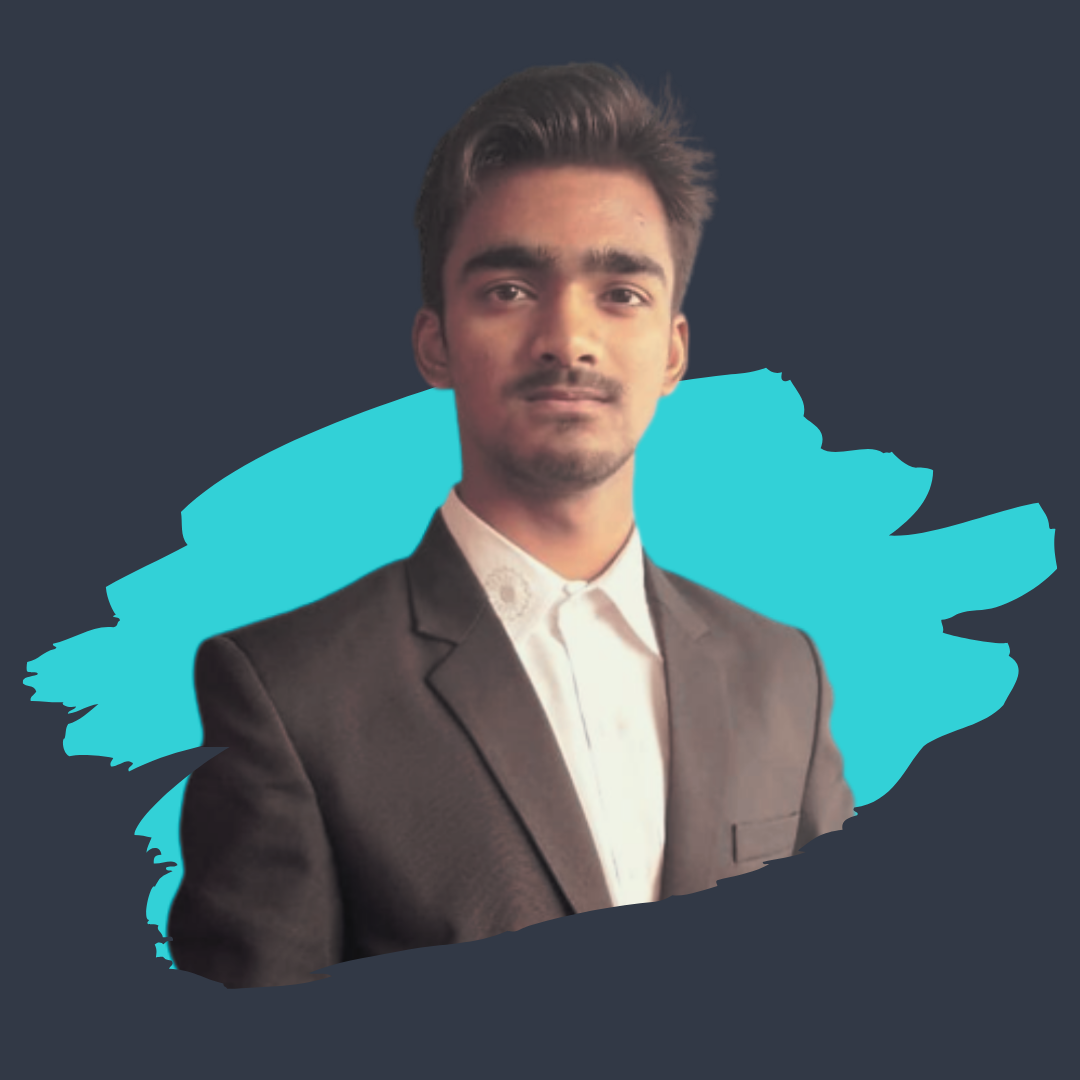
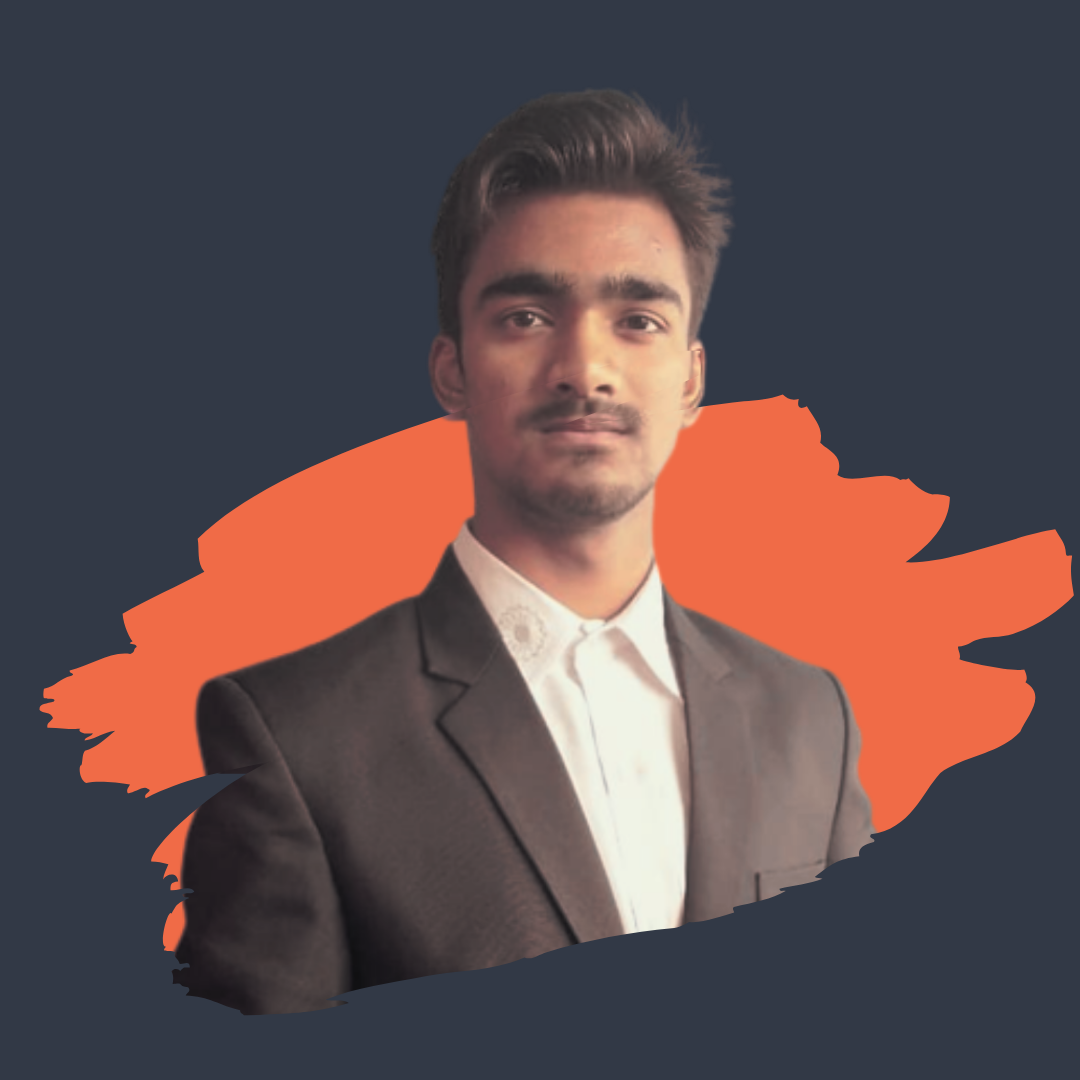
Chnaged the colour and added the proj images.

diff --git a/index.html b/index.html
@@ -16,7 +16,7 @@
 <body>
     <header class="header">
 
-        <a href="#" class="logo">LOGO</a>
+        <a href="#" class="logo">Dipanshu <span>Mishra</span></a>
         <i class="fa-solid fa-bars" id="menuicon"></i>
 
         <nav class="navbar">
@@ -59,7 +59,7 @@
             <img src="/2.png" alt="">
         </div>
         <div class="about-content">
-            <h2 class="heading">About Me</h2>
+            <h2 class="heading">About <span>Me!</span></h2>
             <h3>FrontEnd Developer</h3>
             <p>Lorem ipsum dolor sit amet consectetur adipisicing elit. Vitae maiores nesciunt voluptates. Amet dolorum
                 sint beatae earum dolor distinctio iure maxime quaerat expedita culpa! Consequuntur est beatae molestias
@@ -69,7 +69,7 @@
     </section>
 
     <section class="skills" id="skills">
-        <h2 class="heading">My Skillset and Qualifications</h2>
+        <h2 class="heading">My <span>Skillset</span> and <span>Qualifications!</span></h2>
 
         <div class="Container">
             <div class="ContBox SKILLS">
@@ -152,11 +152,11 @@
     </section>
 
     <section class="projects" id="projects">
-        <h2 class="heading">Latest <span>Projects</span></h2>
+        <h2 class="heading">Latest <span>Projects!</span></h2>
         
         <div class="projCont">
             <div class="projbox">
-                <img src="/maxresdefault.jpg" alt="">
+                <img src="/Project-Images/Realtor.png" alt="Realtor Clone-React JS">
                 <div class="projlayer">
                     <h4>Web Design</h4>
                     <p>Lorem ipsum dolor sit, amet consectetur adipisicing elit. Dignissimos ducimus quisquam eaque! Nostrum, obcaecati at aliquid tempora suscipit natus recusandae sunt esse nihil optio, accusamus hic quisquam debitis quae, officia odio reiciendis voluptas perspiciatis?</p>
@@ -164,7 +164,7 @@
                 </div>
             </div>
             <div class="projbox">
-                <img src="/maxresdefault.jpg" alt="">
+                <img src="/Project-Images/HOTD.jpg" alt="House of the Dragon Alternate Website">
                 <div class="projlayer">
                     <h4>Web Design</h4>
                     <p>Lorem ipsum dolor sit, amet consectetur adipisicing elit. Dignissimos ducimus quisquam eaque! Nostrum, obcaecati at aliquid tempora suscipit natus recusandae sunt esse nihil optio, accusamus hic quisquam debitis quae, officia odio reiciendis voluptas perspiciatis?</p>
@@ -172,7 +172,7 @@
                 </div>
             </div>
             <div class="projbox">
-                <img src="/maxresdefault.jpg" alt="">
+                <img src="/Project-Images/Superhero-Info.png" alt="Superhero-Info Generator">
                 <div class="projlayer">
                     <h4>Web Design</h4>
                     <p>Lorem ipsum dolor sit, amet consectetur adipisicing elit. Dignissimos ducimus quisquam eaque! Nostrum, obcaecati at aliquid tempora suscipit natus recusandae sunt esse nihil optio, accusamus hic quisquam debitis quae, officia odio reiciendis voluptas perspiciatis?</p>
@@ -180,7 +180,7 @@
                 </div>
             </div>
             <div class="projbox">
-                <img src="/maxresdefault.jpg" alt="">
+                <img src="/Project-Images/Tic-tac-Toe.png" alt="Tic Tac Toe Game">
                 <div class="projlayer">
                     <h4>Web Design</h4>
                     <p>Lorem ipsum dolor sit, amet consectetur adipisicing elit. Dignissimos ducimus quisquam eaque! Nostrum, obcaecati at aliquid tempora suscipit natus recusandae sunt esse nihil optio, accusamus hic quisquam debitis quae, officia odio reiciendis voluptas perspiciatis?</p>
@@ -209,6 +209,14 @@
     <footer class="footer">
         <div class="footertxt">
             <p> Copyright &copy | All Rights Reserved</p>
+        </div>
+
+        <div class="footer-social">
+            <a href="https://www.linkedin.com/in/dipanshu-mishra-696a0622a"><i
+                    class="fa-brands fa-linkedin"></i></a>
+            <a href="https://www.instagram.com/_.dipanshu._06/"><i class="fa-brands fa-square-instagram"></i></a>
+            <a href="https://github.com/Dipanshu0612"><i class="fa-brands fa-github"></i></a>
+            <a href=""><i class="fa-brands fa-telegram"></i></a>
         </div>
 
         <div class="icontop">

diff --git a/css/style.css b/css/style.css
@@ -12,7 +12,7 @@
     --bg-color: #1f242d;
     --second-bg-color: #323946;
     --text-color: #fff;
-    --main-color:#0ef;
+    --main-color:#ff914d;
 }
 html{
     font-size: 62.5%;
@@ -20,11 +20,13 @@ html{
 }
 body{
     background: var(--bg-color);
-    color: var(--text-color)
+    color: var(--text-color);
+    width:fit-content;
 }
 section{
     min-height: 100vh;
     padding: 10rem 9% 2rem;
+    width: 100%;
 }
 span{
     color: var(--main-color);
@@ -49,11 +51,12 @@ span{
 .navbar a{
     font-size: 1.7rem;
     margin-left: 4rem;
-    color: var(--text-color);
+    color: rgba(255, 255, 255, 0.678);
 
 }
 .navbar a:hover, a.active{
     color: var(--main-color);
+    font-weight: 700;
 }
 
 .navbar.active{
@@ -193,6 +196,7 @@ span{
 .Container .ContBox:hover{
     transform: scale(1.05);
     box-shadow: 0 0 2.5rem var(--main-color);
+    cursor: pointer;
 }
 .ContBox{
     display:inline;
@@ -266,13 +270,18 @@ span{
     border-radius: 2rem;
     box-shadow: 0 0 1rem var(--bg-color);
     overflow: hidden;
+    object-fit: cover;
+    height: 100%;
 }
 .projbox img{
     width: 100%;
+    height: 100%;
     transition: .5s ease;
+    object-fit: fill;
 }
 .projbox:hover img{
     transform: scale(1.1);
+    opacity: 0.1;
 }
 .projbox:hover .projlayer{
     transform: translateY(0);
@@ -282,7 +291,7 @@ span{
     bottom: 0;
     left: 0;
     width: 100%;
-    height: 100%;
+    height: 105%;
     background: linear-gradient(rgba(0,0,0,.1),var(--main-color));
     display: flex;
     justify-content: center;
@@ -291,7 +300,7 @@ span{
     text-align: center;
     padding: 0 4rem;
     transform: translateY(100%);
-    transition: .5s ease;
+    transition: .5s ease-in-out;
     
 }
 .projlayer h4{
@@ -352,7 +361,35 @@ span{
 }
 .footer p{
     font-size: 1.6rem;
+    margin-left: -7rem;
 }
+.footer-social{
+   display: flex;
+   justify-content: center;
+   align-items: center;
+   margin-left: -10rem;
+}
+.footer-social a{
+    display: inline-flex;
+    align-items: center;
+    justify-content: center;
+    margin: 0 1rem;
+    width: 4rem;
+    height: 4rem;
+    padding: 2rem;
+    font-size: 2rem;
+    border: .2rem solid var(--main-color);
+    background: transparent;
+    color: var(--main-color);
+    transition: .5s ease;
+    border-radius: 20%;
+}
+.footer-social a:hover{
+    background: var(--main-color);
+    color: var(--second-bg-color);
+    box-shadow: 0 0 1rem var(--main-color);
+}
+
 .icontop{
     display: inline-flex;
     justify-content: center;
@@ -401,11 +438,23 @@ span{
     .home{
         flex-direction: column;
     }
+    .home-content{
+        justify-items: center;
+        align-items: center;
+        margin: auto;
+    }
+    .home-content .btn{
+        display: flex;
+        justify-content: space-around;
+        align-items: center;
+    }
     .home-dp img{
         width: 70vw;
+        margin-top: 6rem;
     }
     .about{
         flex-direction: column-reverse;
+        width: 111%;
     }
     .about-dp img{
         width: 70vw;
@@ -415,6 +464,10 @@ span{
     }
     .skills .heading{
         padding-bottom: 2rem;
+    }
+
+    .projCont{
+        grid-template-columns: 50% 50%;
     }
 }
 
